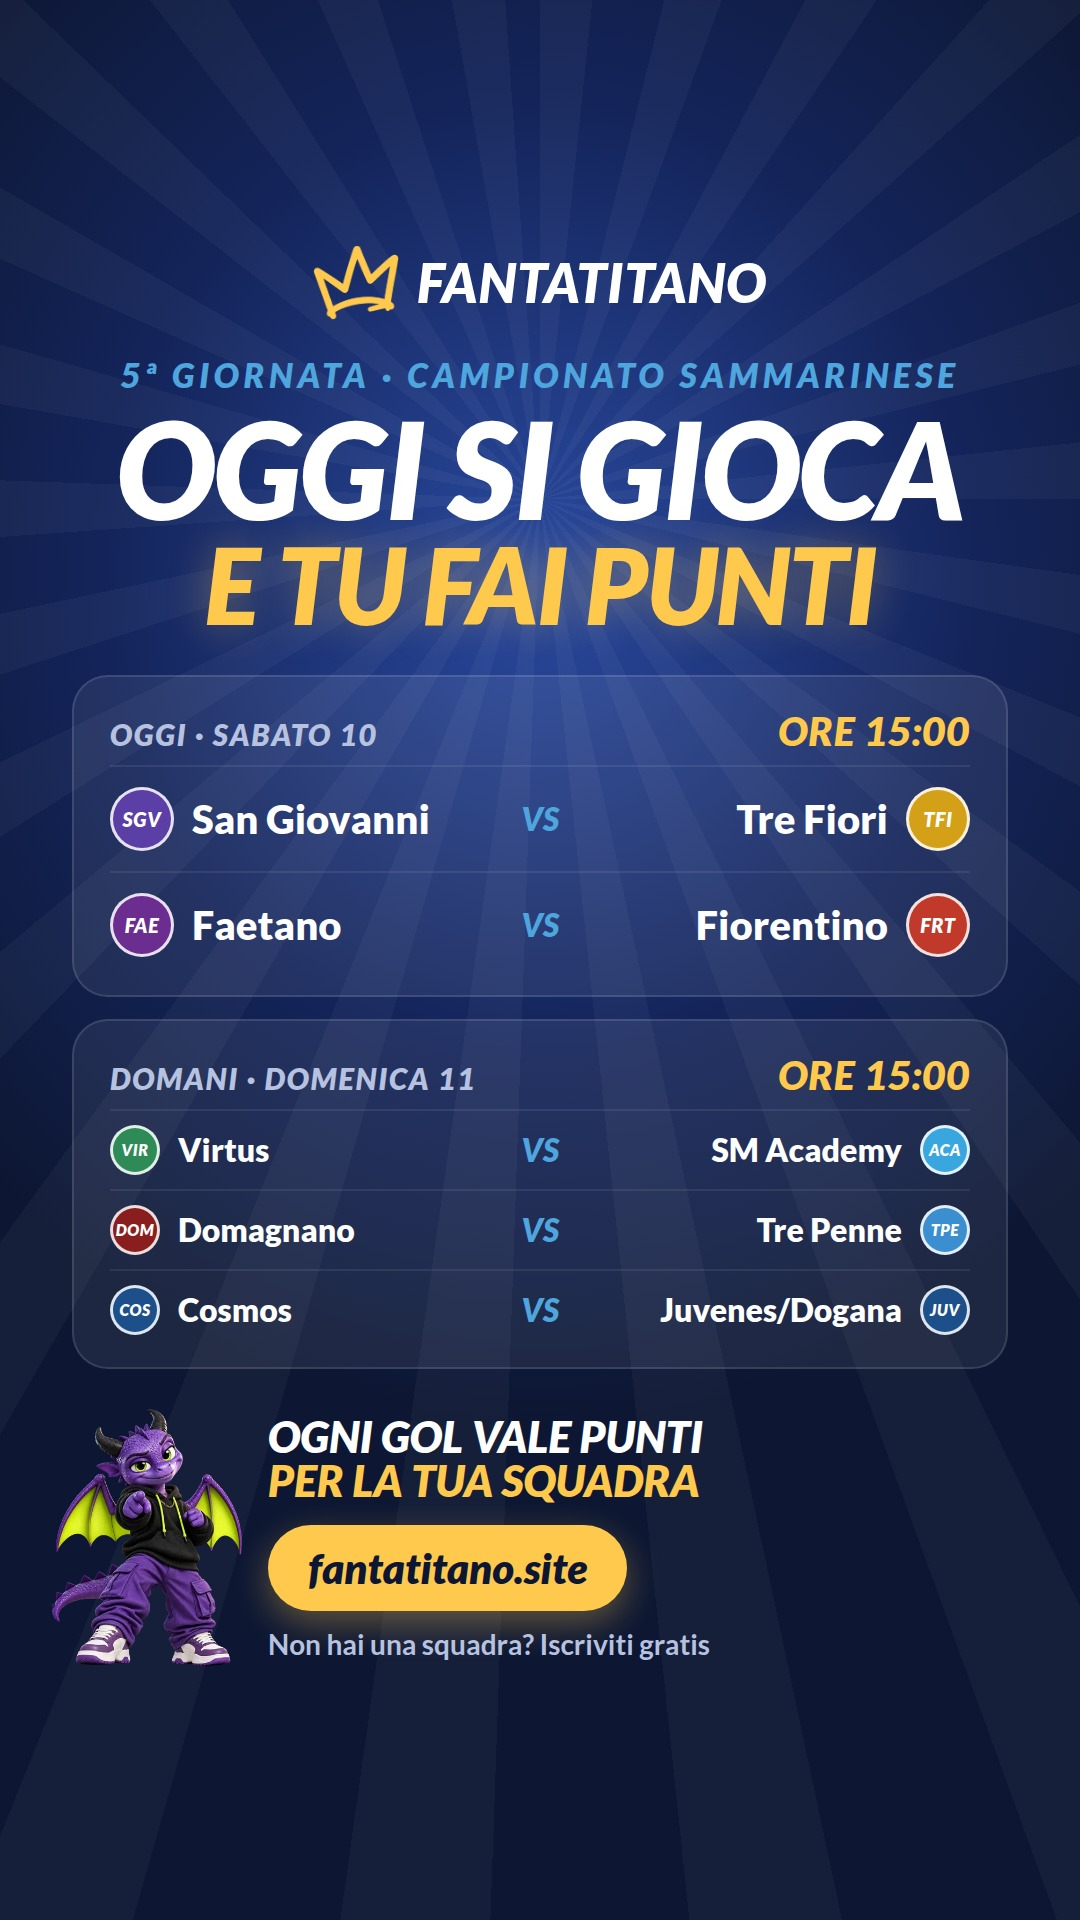
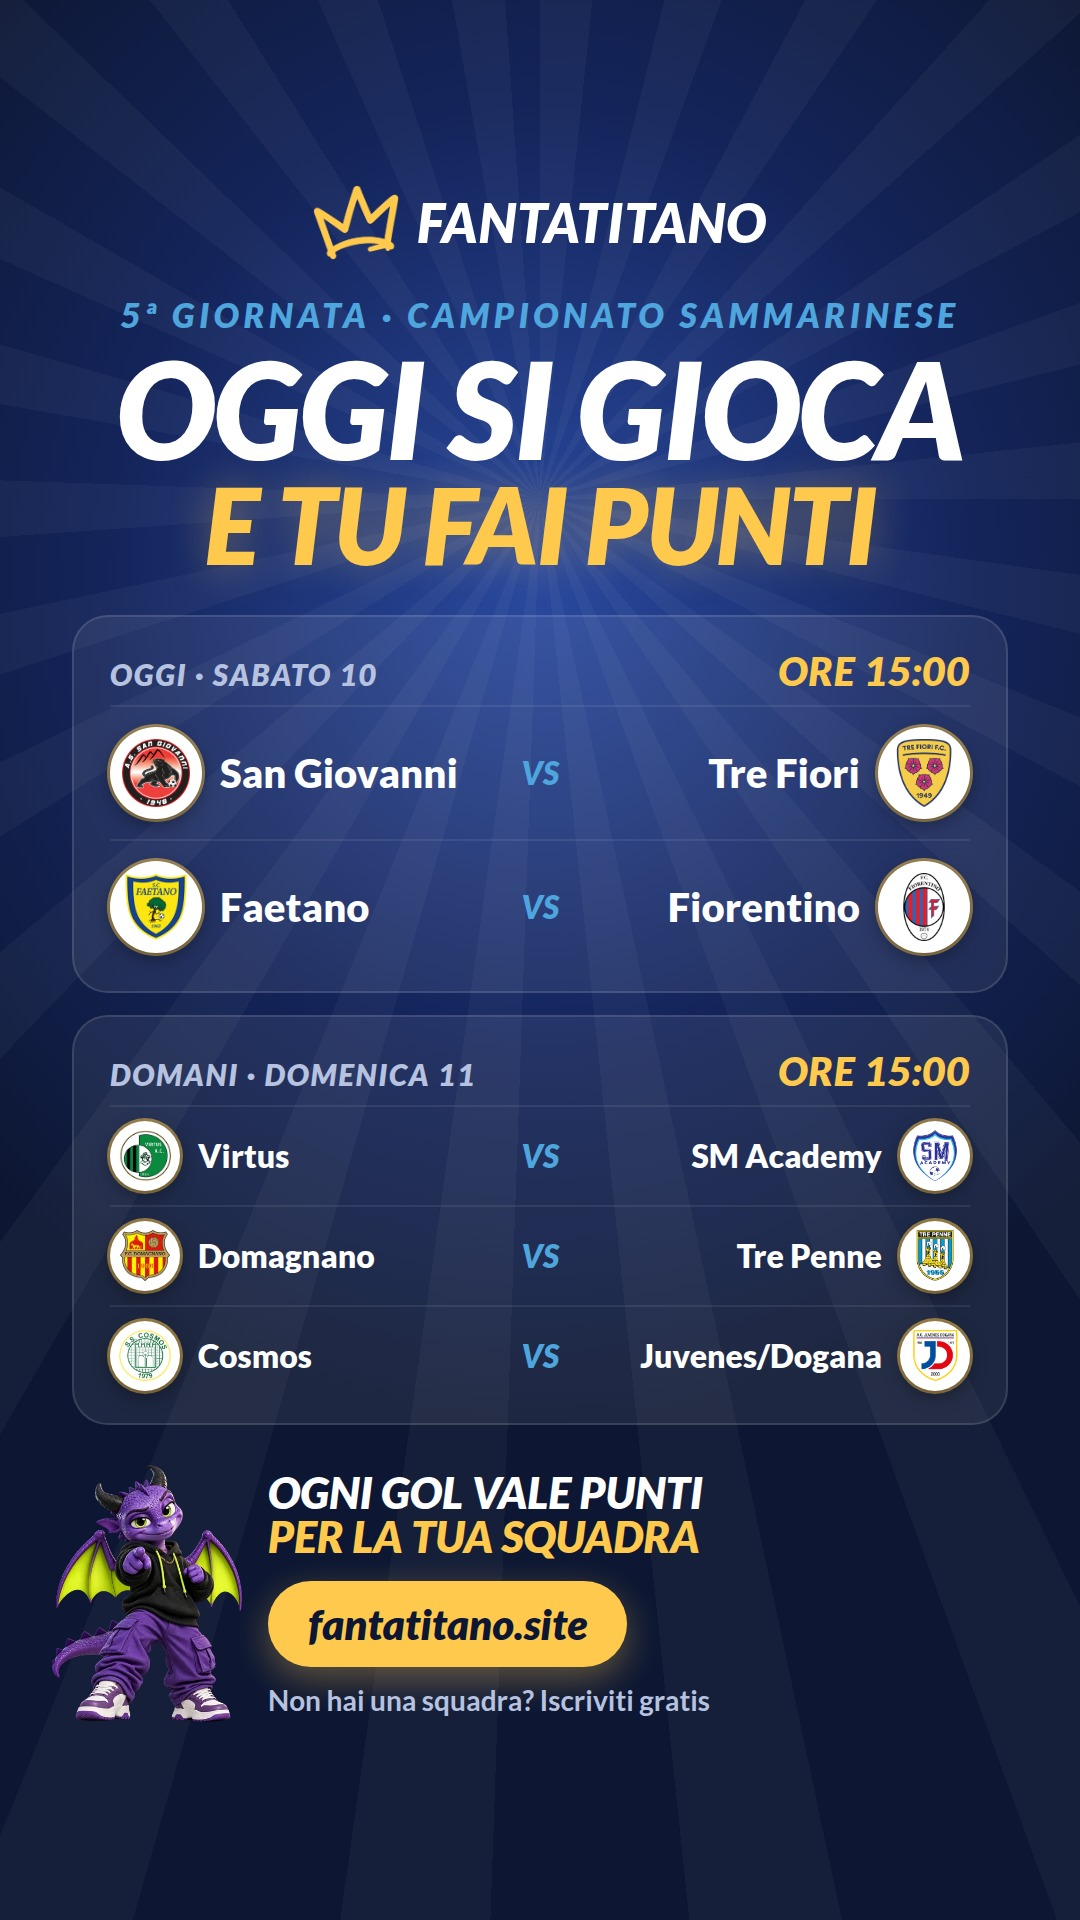
Storia del 10/10: loghi ufficiali delle squadre (dal sito FSGC)
Claude-Session: https://claude.ai/code/session_011w2uTqyT5XgiKaneuFqC14

Changed region(s): [[0.0306, 0.0938, 0.9167, 0.9062], [0.4889, 0.375, 0.5194, 0.4375], [0.4889, 0.4688, 0.5194, 0.5]]

diff --git a/social/storie/2026-10-10-giornata-5.html b/social/storie/2026-10-10-giornata-5.html
@@ -1,16 +1,16 @@
 <!doctype html>
 <html lang="it"><head><meta charset="utf-8">
 <style>
-@font-face{font-family:Lato;font-weight:400;src:url(file:///home/user/fantasyfootballrsm/media/font/lato-400-latin.woff2)}
-@font-face{font-family:Lato;font-weight:700;src:url(file:///home/user/fantasyfootballrsm/media/font/lato-700-latin.woff2)}
-@font-face{font-family:Lato;font-weight:900;src:url(file:///home/user/fantasyfootballrsm/media/font/lato-900-latin.woff2)}
-@font-face{font-family:Lato;font-weight:900;font-style:italic;src:url(file:///home/user/fantasyfootballrsm/media/font/lato-900i-latin.woff2)}
+@font-face{font-family:Lato;font-weight:400;src:url(../../media/font/lato-400-latin.woff2)}
+@font-face{font-family:Lato;font-weight:700;src:url(../../media/font/lato-700-latin.woff2)}
+@font-face{font-family:Lato;font-weight:900;src:url(../../media/font/lato-900-latin.woff2)}
+@font-face{font-family:Lato;font-weight:900;font-style:italic;src:url(../../media/font/lato-900i-latin.woff2)}
 *{box-sizing:border-box;margin:0;padding:0}
 html,body{width:1080px;height:1920px;overflow:hidden}
 body{font-family:Lato,sans-serif;color:#fff;
   background:radial-gradient(90% 55% at 50% 30%,#2A4AA0 0%,#14245A 45%,#0D1733 80%);position:relative}
 .raggi{position:absolute;inset:0;background:repeating-conic-gradient(from 0deg at 50% 26%,rgba(255,255,255,.035) 0 6deg,transparent 6deg 14deg);}
-.wrap{position:absolute;inset:0;padding:245px 72px 0;display:flex;flex-direction:column;align-items:center}
+.wrap{position:absolute;inset:0;padding:185px 72px 0;display:flex;flex-direction:column;align-items:center}
 .marchio{display:flex;align-items:center;gap:18px}
 .marchio img{width:86px}
 .marchio span{font-weight:900;font-style:italic;font-size:54px;letter-spacing:.02em;text-transform:uppercase}
@@ -20,14 +20,15 @@ h1 em{display:block;font-style:italic;color:#FFC94D;font-size:106px;margin-top:8
 .scheda{margin-top:42px;width:100%;background:rgba(255,255,255,.07);border:2px solid rgba(255,255,255,.12);border-radius:36px;padding:30px 36px 18px}
 .testa{display:flex;justify-content:space-between;align-items:baseline;font-weight:900;font-style:italic;text-transform:uppercase;letter-spacing:.06em;font-size:30px;color:#B7C2E0;margin-bottom:10px}
 .testa b{color:#FFC94D;font-size:40px;letter-spacing:.02em}
-.gara{display:grid;grid-template-columns:1fr 70px 1fr;align-items:center;padding:20px 0;border-top:2px solid rgba(255,255,255,.08)}
+.gara{display:grid;grid-template-columns:1fr 64px 1fr;align-items:center;padding:20px 0;border-top:2px solid rgba(255,255,255,.08)}
 .gara:first-of-type{border-top:0}
 .sq{display:flex;align-items:center;gap:18px;font-weight:900;font-size:40px}
 .sq.dx{flex-direction:row-reverse;text-align:right}
-.st{width:64px;height:64px;border-radius:50%;flex:none;display:grid;place-items:center;font-size:20px;font-weight:900;letter-spacing:.04em;border:3px solid rgba(255,255,255,.85)}
+.st{width:92px;height:92px;border-radius:50%;flex:none;display:grid;place-items:center;background:#fff;box-shadow:0 6px 18px rgba(0,0,0,.35),0 0 0 3px rgba(255,201,77,.55)}
+.st img{width:74%;height:74%;object-fit:contain}
 .vs{text-align:center;font-weight:900;font-style:italic;color:#4FA5DE;font-size:32px}
 .piccola .sq{font-size:32px}
-.piccola .st{width:50px;height:50px;font-size:16px}
+.piccola .st{width:70px;height:70px}
 .piccola .gara{padding:14px 0}
 .cta{margin-top:40px;display:flex;align-items:center;gap:26px;width:100%}
 .cta img{width:190px;flex:none;margin-left:-20px}
@@ -39,25 +40,25 @@ h1 em{display:block;font-style:italic;color:#FFC94D;font-size:106px;margin-top:8
 </style></head><body>
 <div class="raggi"></div>
 <div class="wrap">
-  <div class="marchio"><img src="file:///home/user/fantasyfootballrsm/videos/lancio-formazione/assets/brand/corona-oro.png" alt=""><span>Fantatitano</span></div>
+  <div class="marchio"><img src="../../videos/lancio-formazione/assets/brand/corona-oro.png" alt=""><span>Fantatitano</span></div>
   <div class="occhiello">5ª giornata · Campionato Sammarinese</div>
   <h1>Oggi si gioca<em>e tu fai punti</em></h1>
 
   <div class="scheda">
     <div class="testa"><span>Oggi · sabato 10</span><b>ore 15:00</b></div>
-    <div class="gara"><div class="sq"><i class="st" style="background:#5B3FA6">SGV</i>San Giovanni</div><div class="vs">VS</div><div class="sq dx"><i class="st" style="background:#D4A017">TFI</i>Tre Fiori</div></div>
-    <div class="gara"><div class="sq"><i class="st" style="background:#6B2D8F">FAE</i>Faetano</div><div class="vs">VS</div><div class="sq dx"><i class="st" style="background:#C0392B">FRT</i>Fiorentino</div></div>
+    <div class="gara"><div class="sq"><i class="st"><img src="loghi/san-giovanni.png" alt=""></i>San Giovanni</div><div class="vs">VS</div><div class="sq dx"><i class="st"><img src="loghi/tre-fiori.png" alt=""></i>Tre Fiori</div></div>
+    <div class="gara"><div class="sq"><i class="st"><img src="loghi/faetano.png" alt=""></i>Faetano</div><div class="vs">VS</div><div class="sq dx"><i class="st"><img src="loghi/fiorentino.png" alt=""></i>Fiorentino</div></div>
   </div>
 
   <div class="scheda piccola" style="margin-top:22px">
     <div class="testa"><span>Domani · domenica 11</span><b>ore 15:00</b></div>
-    <div class="gara"><div class="sq"><i class="st" style="background:#2E8B57">VIR</i>Virtus</div><div class="vs">VS</div><div class="sq dx"><i class="st" style="background:#3AA6E0">ACA</i>SM Academy</div></div>
-    <div class="gara"><div class="sq"><i class="st" style="background:#8A1D1D">DOM</i>Domagnano</div><div class="vs">VS</div><div class="sq dx"><i class="st" style="background:#3B8ED0">TPE</i>Tre Penne</div></div>
-    <div class="gara"><div class="sq"><i class="st" style="background:#1D4F8A">COS</i>Cosmos</div><div class="vs">VS</div><div class="sq dx"><i class="st" style="background:#1D4F8A">JUV</i>Juvenes/Dogana</div></div>
+    <div class="gara"><div class="sq"><i class="st"><img src="loghi/virtus.png" alt=""></i>Virtus</div><div class="vs">VS</div><div class="sq dx"><i class="st"><img src="loghi/san-marino-academy.png" alt=""></i>SM Academy</div></div>
+    <div class="gara"><div class="sq"><i class="st"><img src="loghi/domagnano.png" alt=""></i>Domagnano</div><div class="vs">VS</div><div class="sq dx"><i class="st"><img src="loghi/tre-penne.png" alt=""></i>Tre Penne</div></div>
+    <div class="gara"><div class="sq"><i class="st"><img src="loghi/cosmos.png" alt=""></i>Cosmos</div><div class="vs">VS</div><div class="sq dx"><i class="st"><img src="loghi/juvenes-dogana.png" alt=""></i>Juvenes/Dogana</div></div>
   </div>
 
   <div class="cta">
-    <img src="file:///home/user/fantasyfootballrsm/media/tito/indica.webp" alt="">
+    <img src="../../media/tito/indica.webp" alt="">
     <div class="t">
       <p>Ogni gol vale punti<br><span>per la tua squadra</span></p>
       <div class="pill">fantatitano.site</div>
